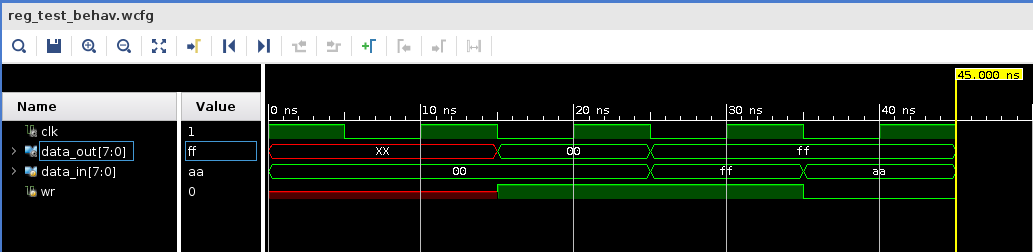
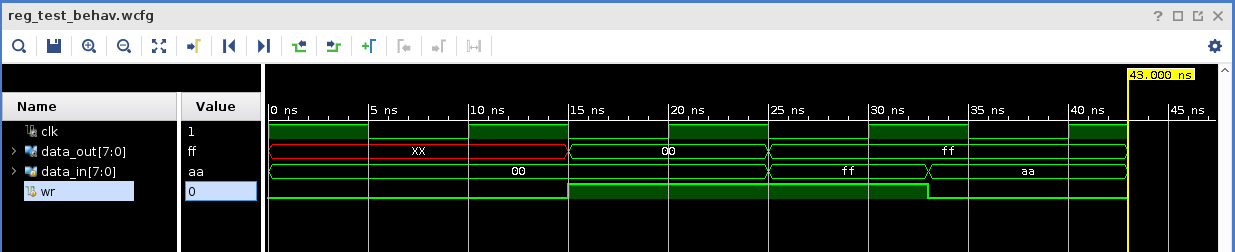
fixed timing diagram and added 1 question

diff --git a/Assignment.md b/Assignment.md
@@ -11,7 +11,9 @@ Please read the [coding standard](coding_standard.md).
 - For all the simulations, you should use a oscillator with 10ns period (5ns hi, 5ns lo).
 - Block diagrams can be embedded in this doc.
 
-### 1. The following code constructs a ```REG``` module using a N-bit 2-way mux and N D-flipflops.
+### 1. What is the difference in behavior between latch and flip-flop based on the modules and test cases we have developed in lab? **(1 pt)**
+
+### 2. The following code constructs a ```REG``` module using a N-bit 2-way mux and N D-flipflops.
 ```verilog
 module REG #(parameter SIZE=4)
    (input clk, wr_en,
@@ -24,11 +26,10 @@ module REG #(parameter SIZE=4)
    d_flip_flop d_ff[SIZE-1:0](.clk(clk), .d(reg_in), .q(out));
 
 endmodule
-
 ```
-- Describe the functionality of this module. (1pt)
+- Describe the functionality of this module. **(1pt)**
 
-- Draw a block diagram of this module in terms of mux and D-flipflop. (1pt)
+- Draw a block diagram of this module in terms of mux and D-flipflop. **(1pt)**
 
 - The following code is the test bench of ```REG``` module.
 ```verilog
@@ -65,12 +66,12 @@ endmodule // reg_test
   
   ![](pics/reg_test_behav.png)
 
-- Explain: (2pts)
+- Explain: **(1pts)**
   - Why ```data_out``` changes from ```xx``` to ```00``` at 15ns?
   - Why ```data_out``` changes from ```00``` to ```FF``` at 25ns?
   - Why ```data_out``` maintains ```FF``` value at 35ns?
 
-### 3. Implement and test a N-bit 1-4 demux. (2 pts)
+### 3. Implement and test a N-bit 1-4 demux. **(2 pts)**
 - Name this simulation set as "demux4\_test"
   ```verilog
   module demux4 #(parameter N=4) 
@@ -83,11 +84,14 @@ endmodule // reg_test
 - **Hint**: You can implement it using ```case``` statement.
 
 ### 4. The following block diagram describes an implementation of register file:
+
 ![](pics/regfile.png)
+
 - Explain the functionality of the following ports
-  - ```rd_addr``` and ```data_out``` (1pt)
-  - ```wr_addr```, ```wr_en``` and ```data_in``` (1pt)
-- Implenent the register file according to the block diagram and test its functions (2pts).
+  - ```rd_addr``` and ```data_out``` **(1pt)**
+  - ```wr_addr```, ```wr_en``` and ```data_in``` **(1pt)**
+
+- Implenent the register file according to the block diagram and test its functions **(2pts)**.
   ```verilog
   module regfile4 #(parameter N=8)
      (input          clk, wr_en,
